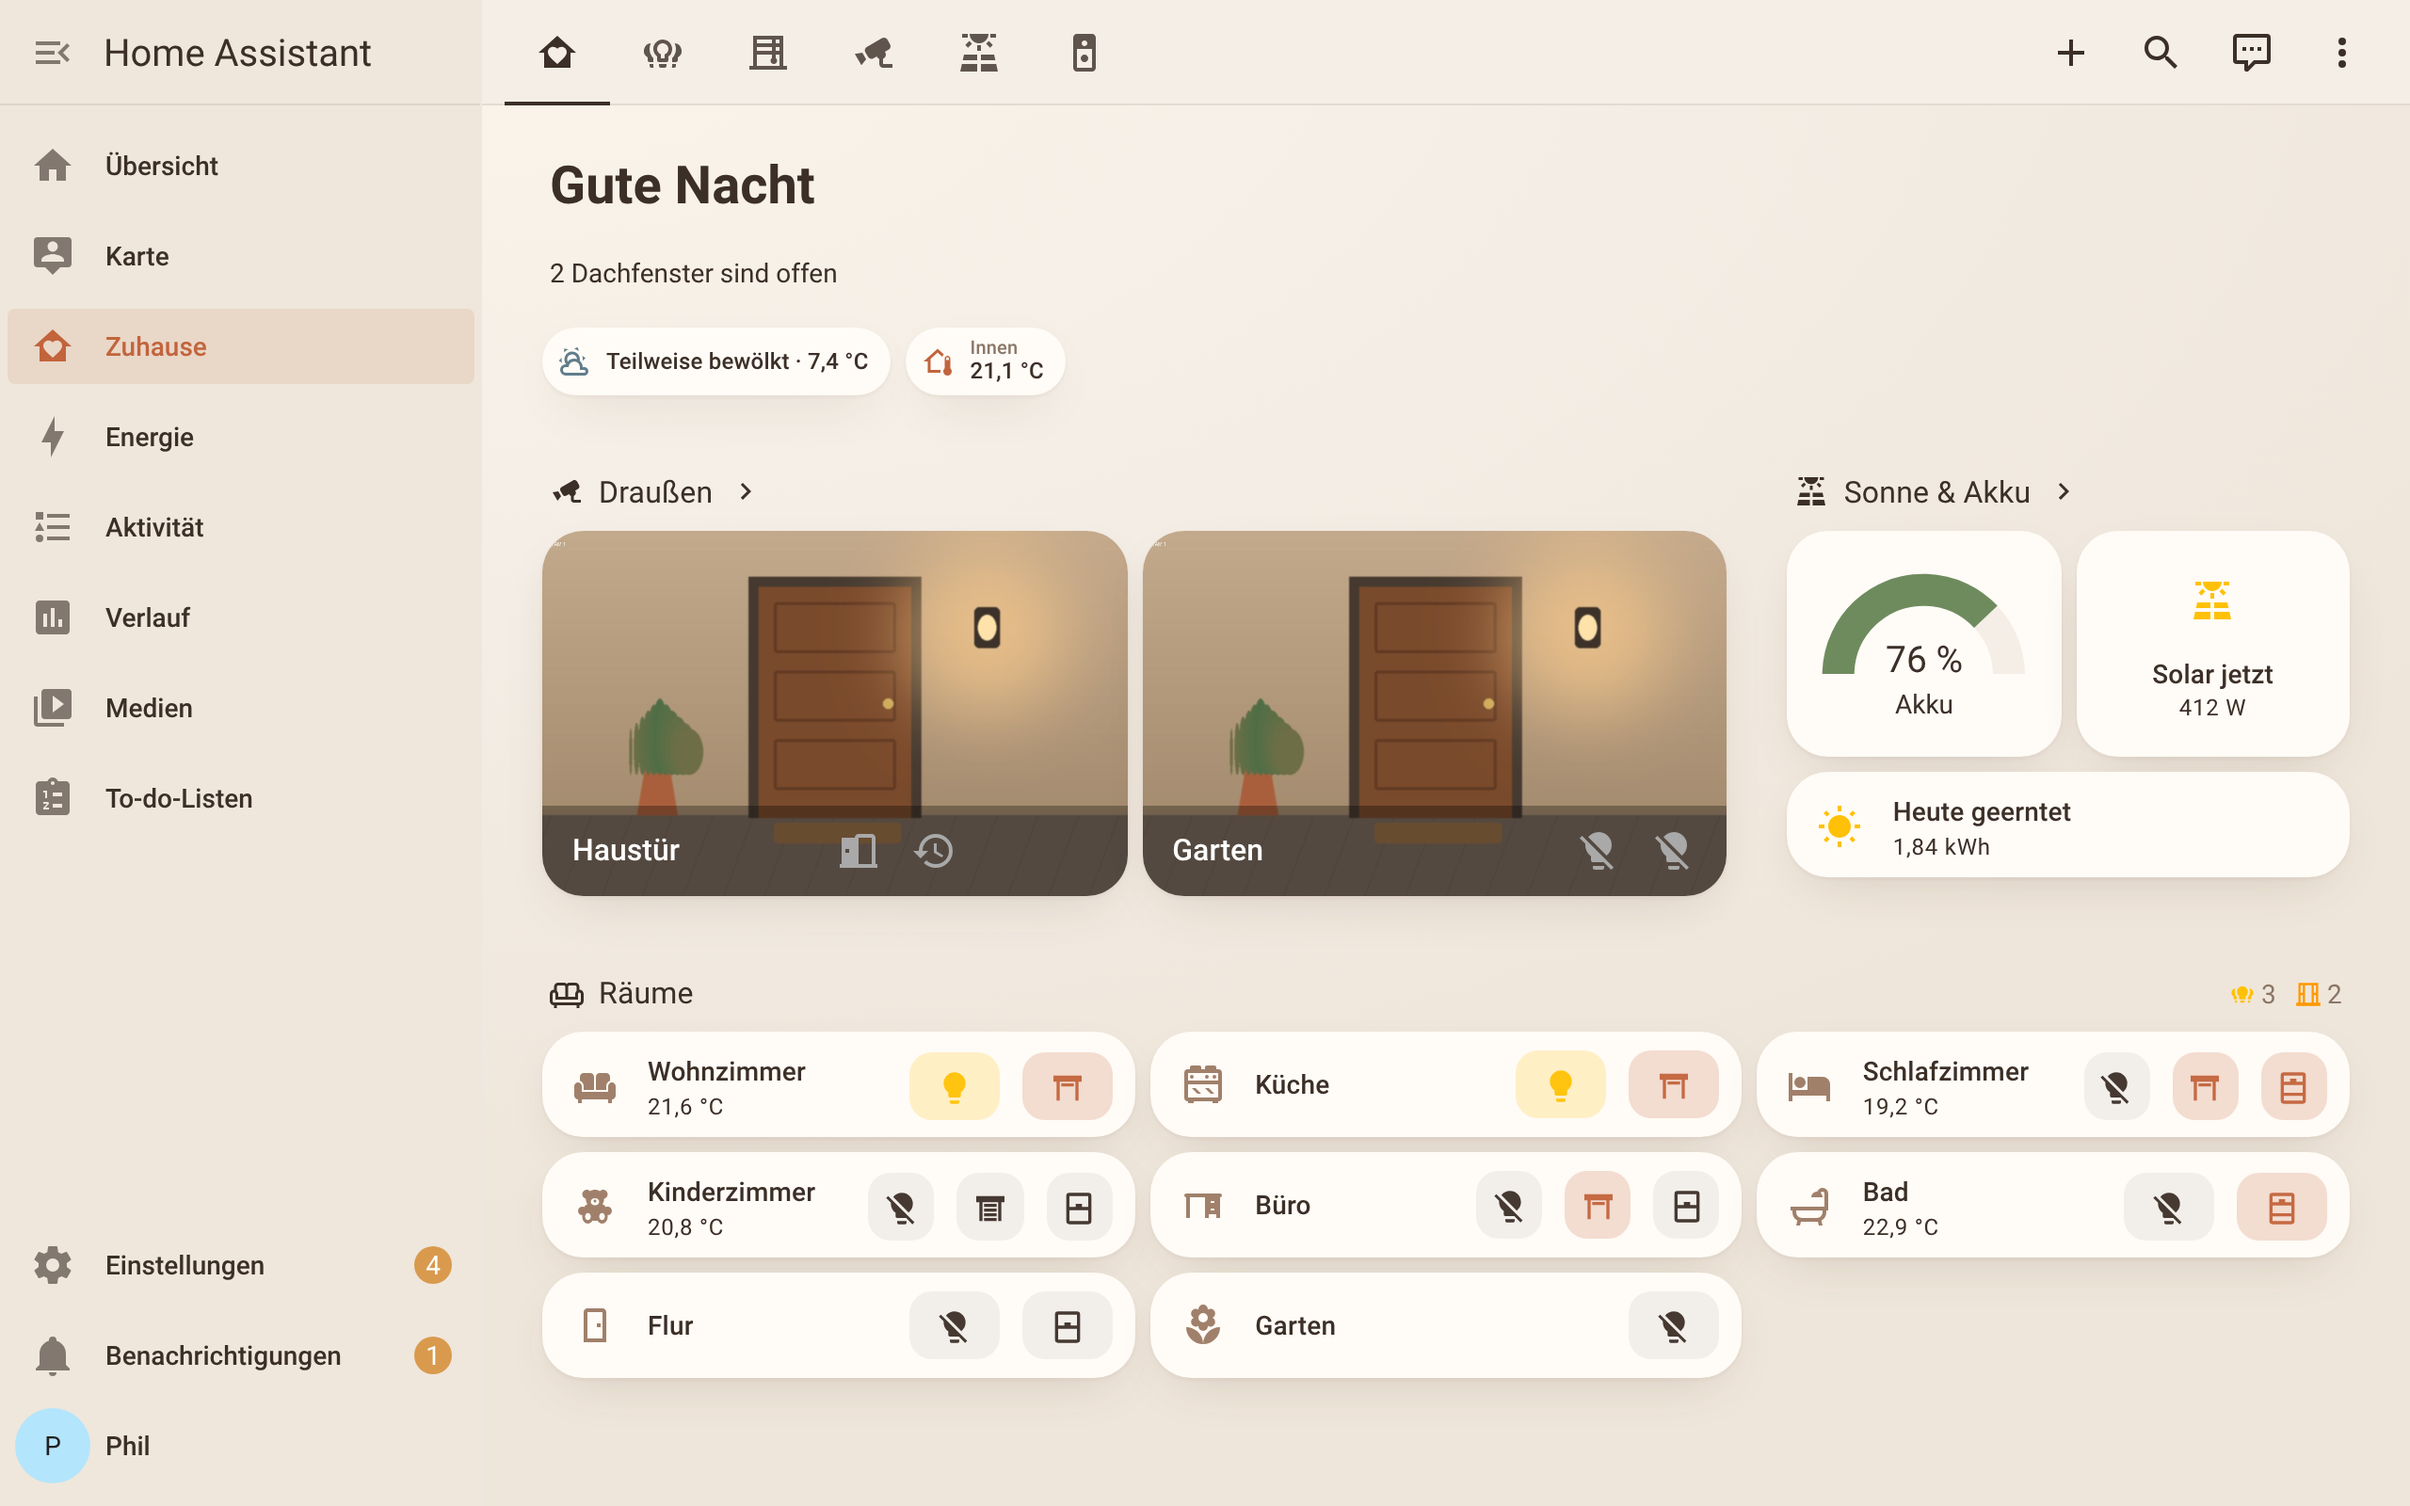
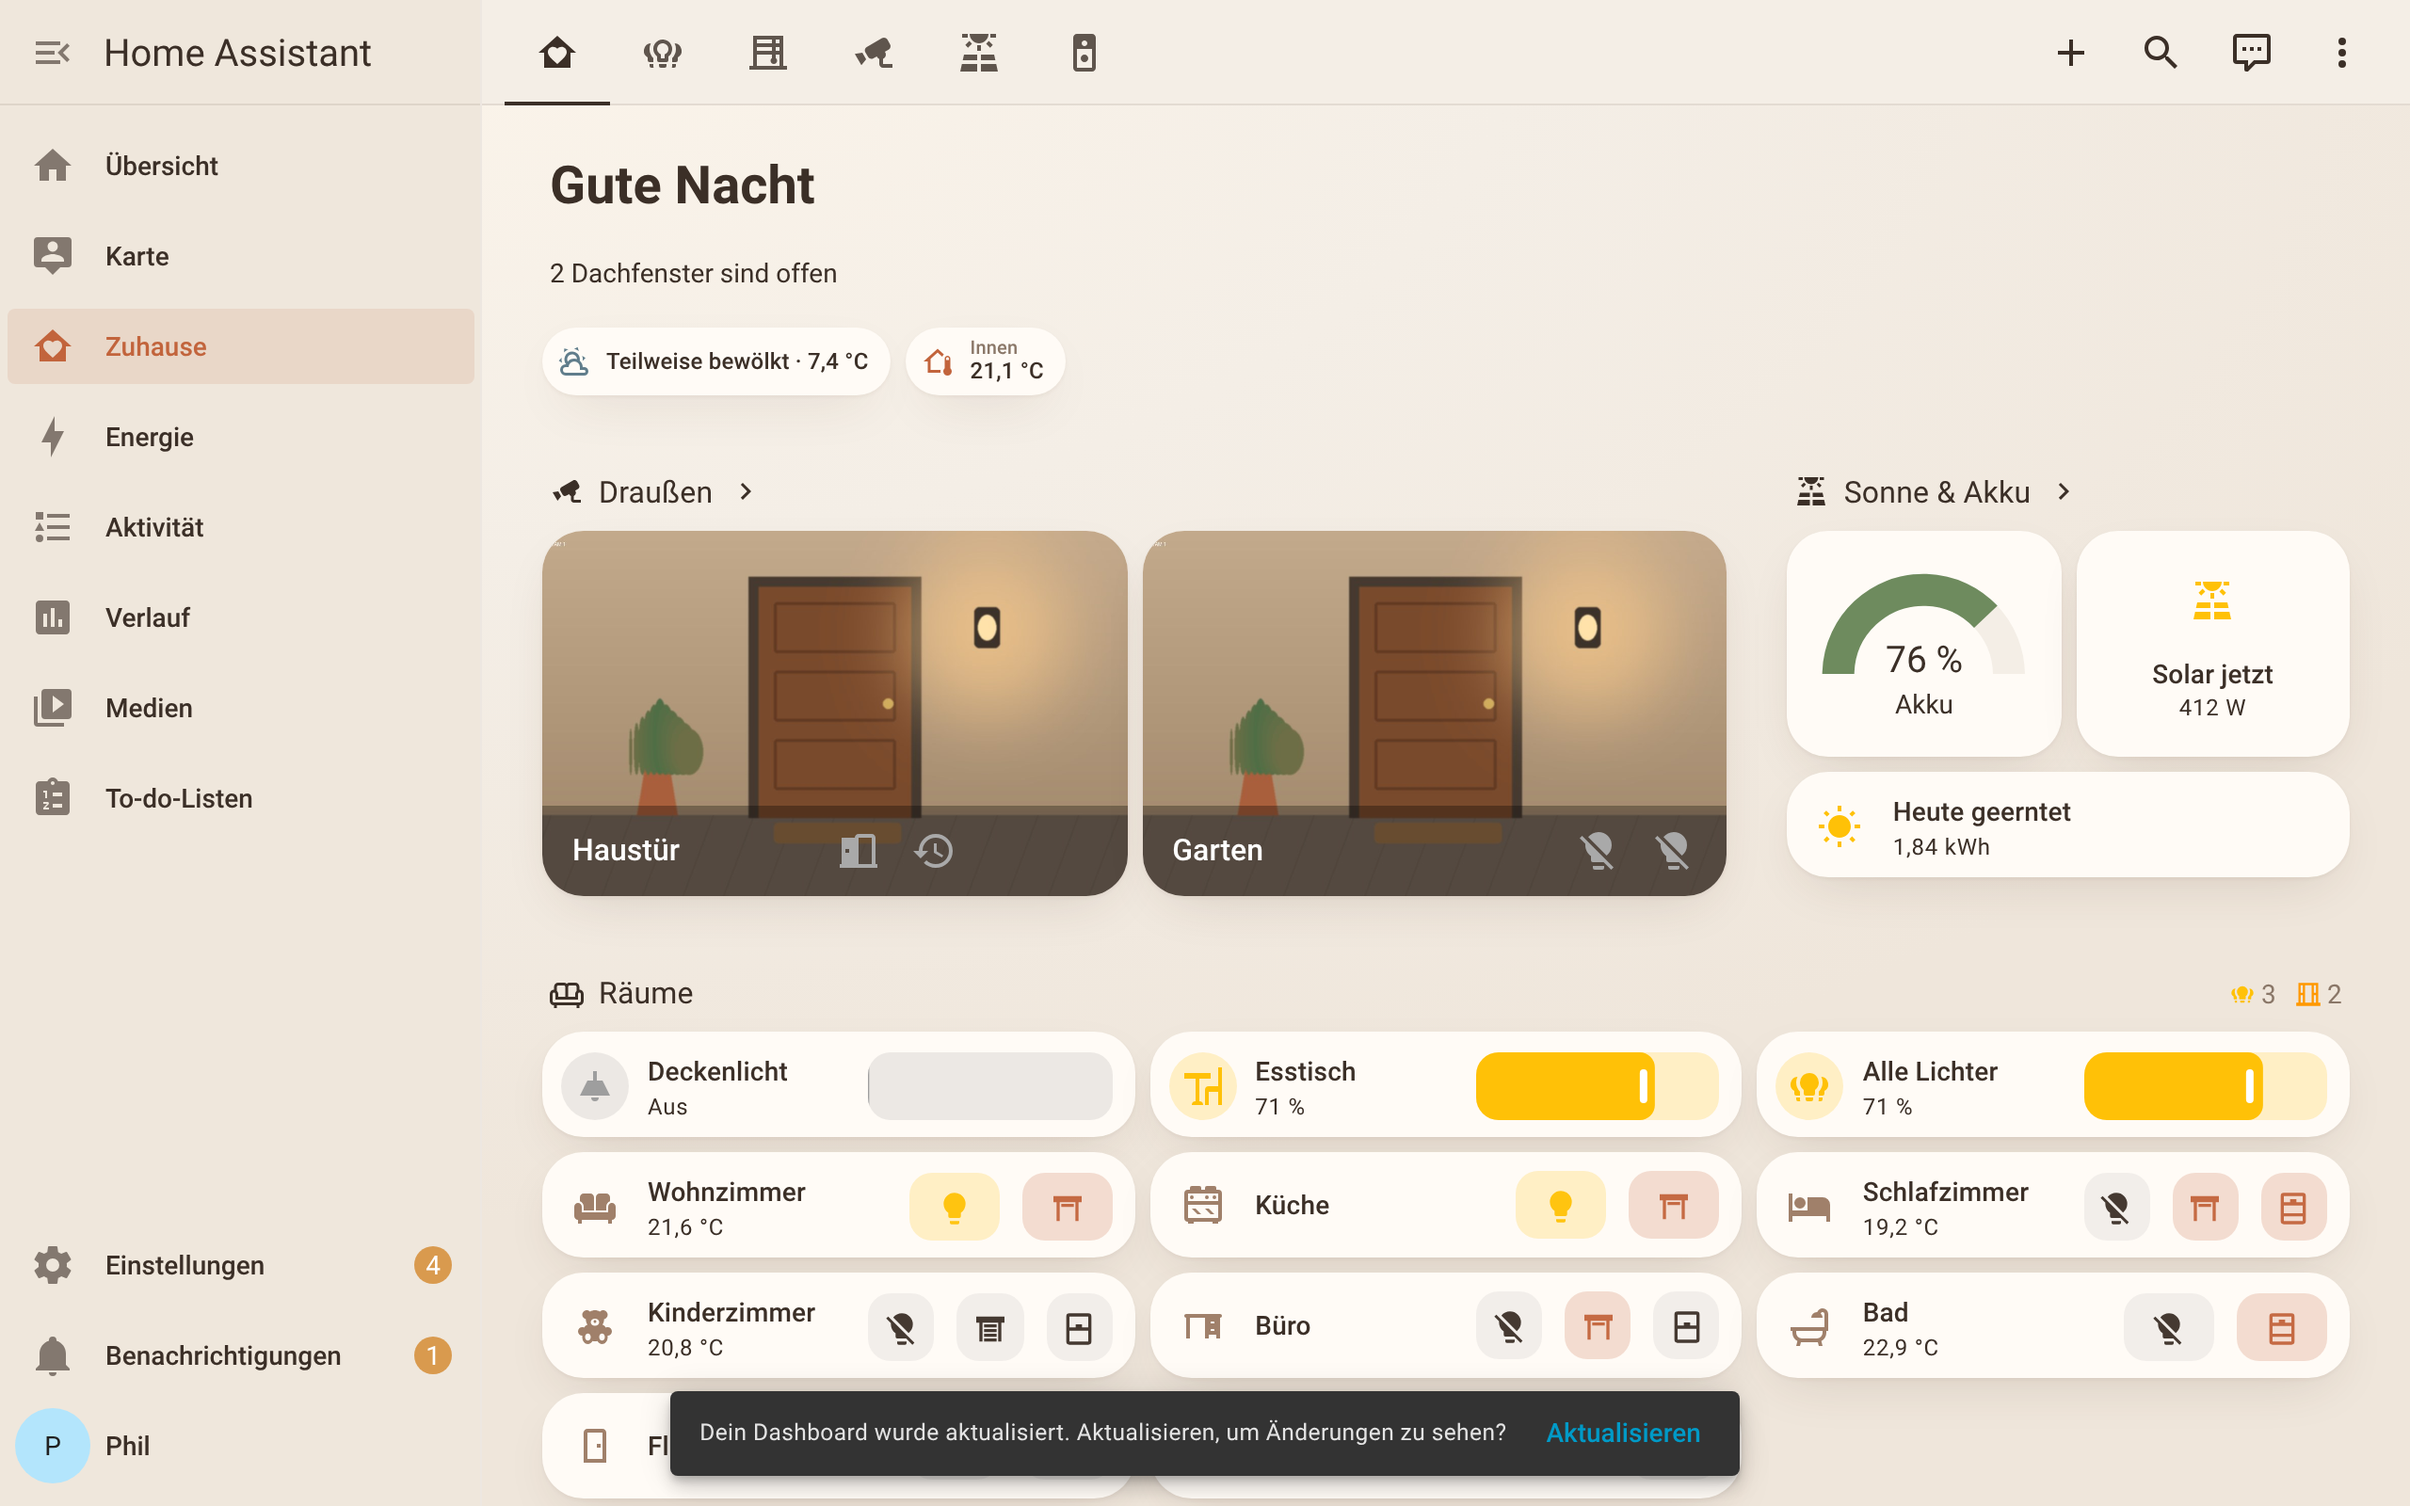
Übersicht: Dimmer für Wohnzimmer, Esstisch und alle Lichter
Claude-Session: https://claude.ai/code/session_01WkuXR1mXm3cG4XFExM6F89

diff --git a/dashboard/README.md b/dashboard/README.md
@@ -21,6 +21,7 @@ Zusatzkarten, kein HACS, nichts, was bei einem Update kaputtgehen kann.
 - **Draußen**: beide Kamerabilder mit **Knöpfen im Bild** – Haustür: *Tür öffnen*, *Klingel-Verlauf*;
   Garten: Lichter. **Klingelt es**, wird die Haustür groß und **live**, 3 Minuten lang.
 - **Sonne & Akku**: Akku als Anzeige, Solarleistung jetzt, Ertrag heute
+- **Dimmer** für Deckenlicht Wohnzimmer, Esstisch und alle Lichter (Schieber direkt in der Kachel)
 - **Räume**: eine Karte pro Raum mit Temperatur und Knöpfen für Licht, Rollo und Dachfenster.
   Oben rechts „💡 3“ (Tipp: alle Lichter aus) und „Dachfenster 2“ (Tipp: alle schließen).
 
